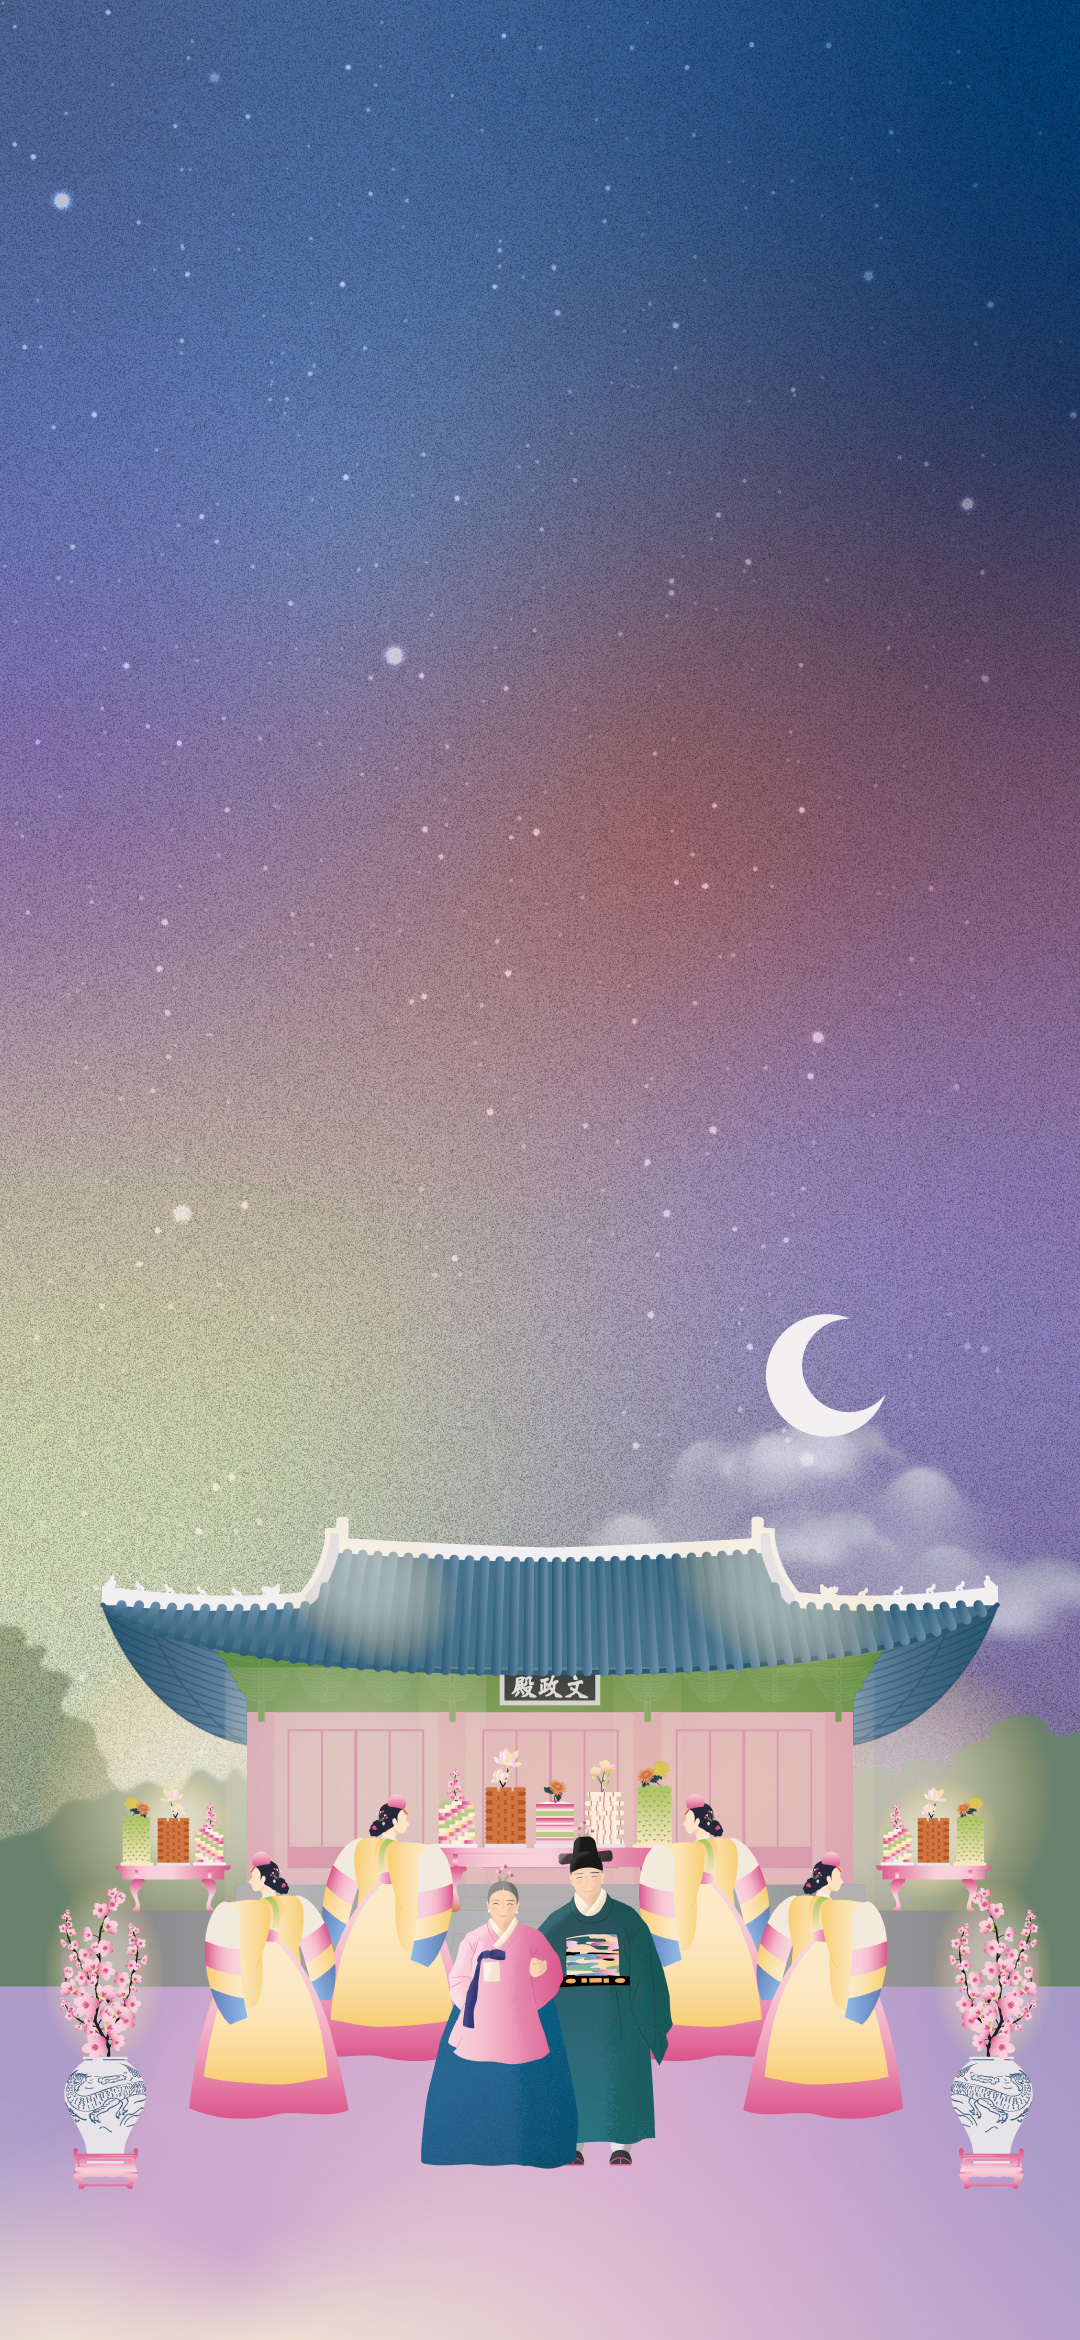
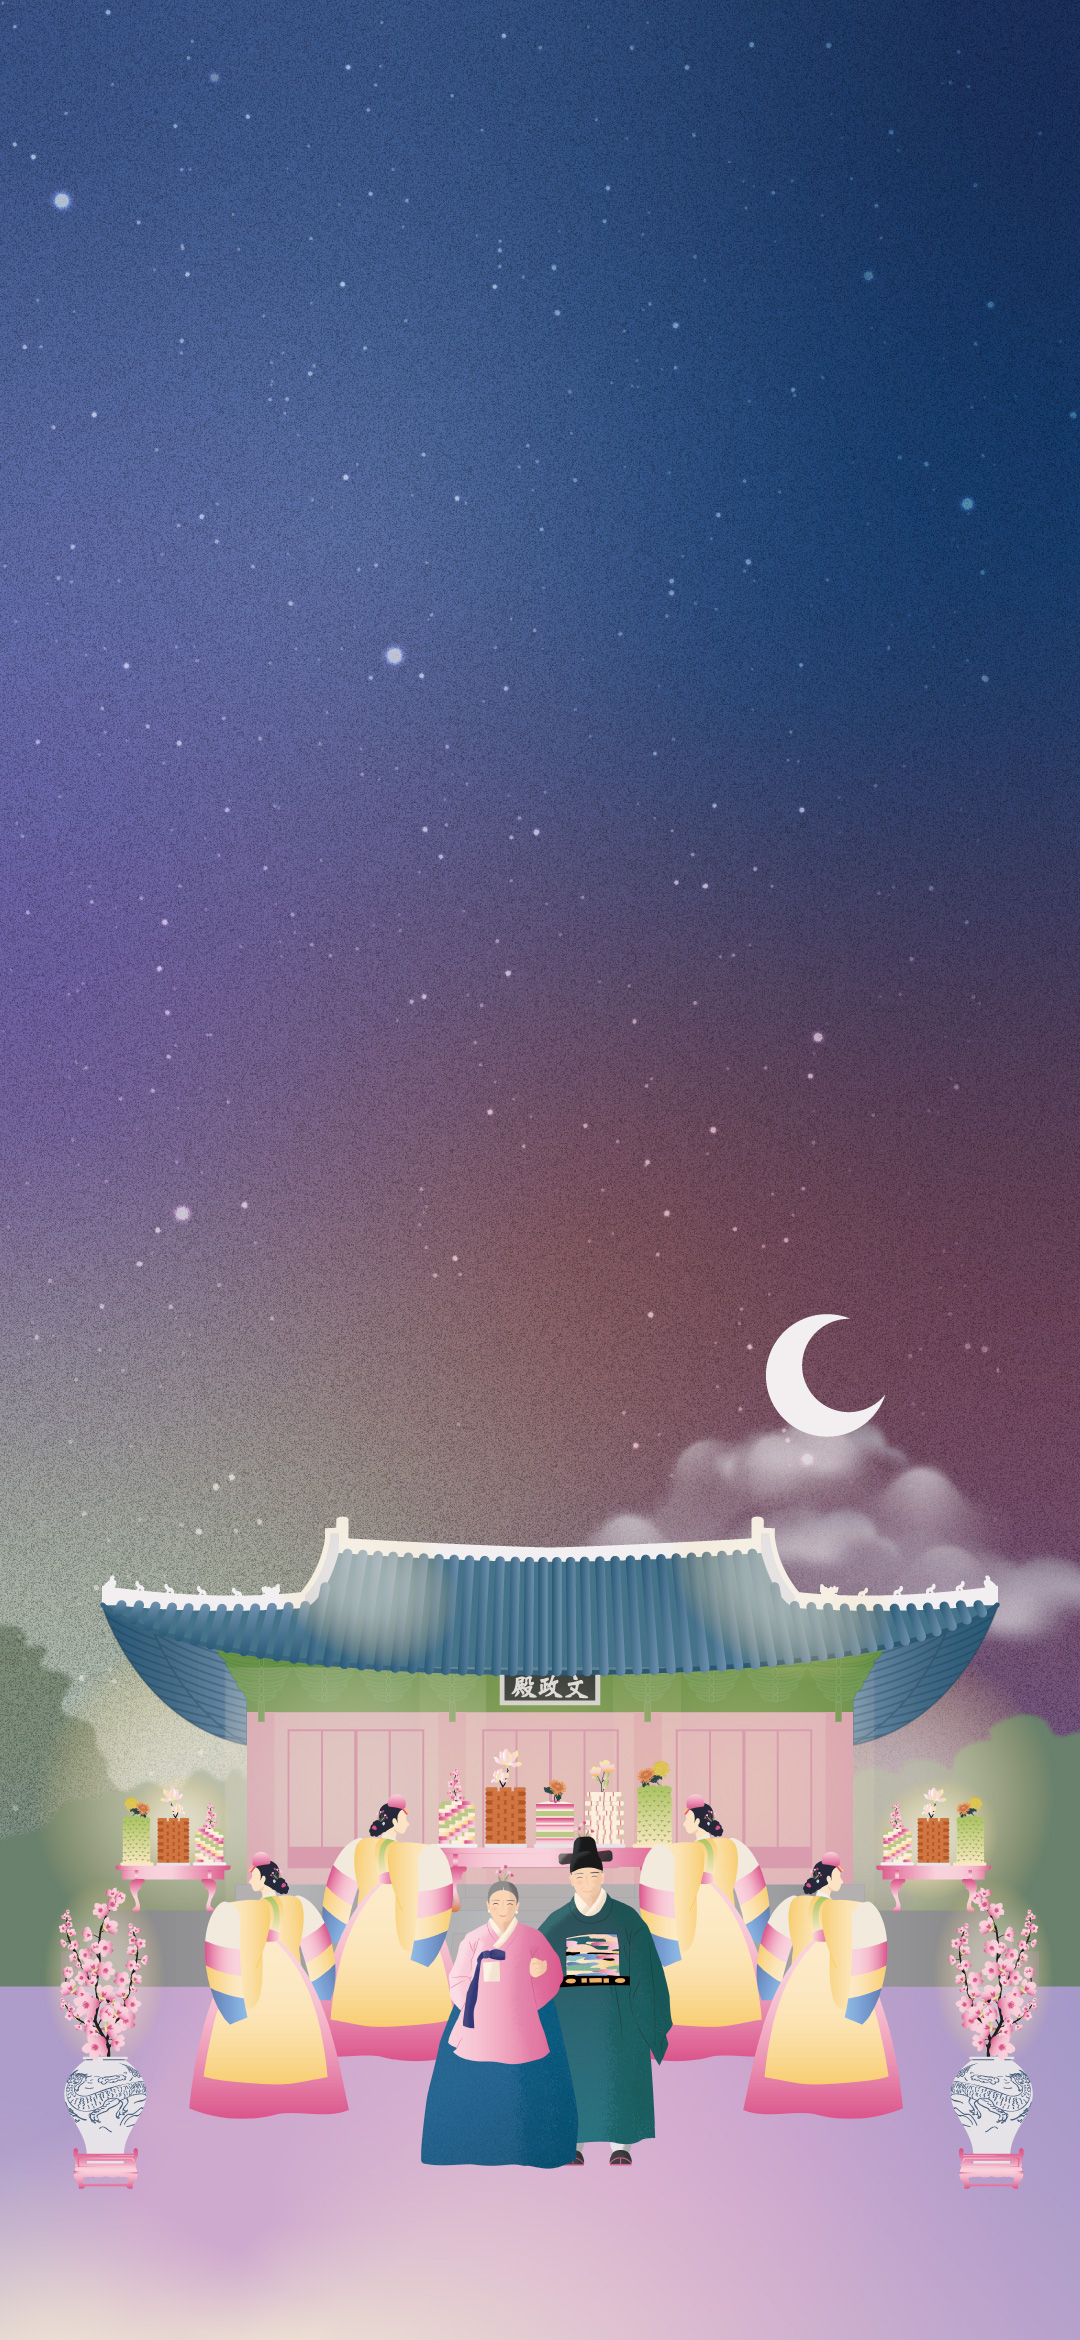
2026 콘텐츠/이미지 반영 및 UI 상호작용 개선

diff --git a/index.html b/index.html
@@ -16,6 +16,8 @@
         html {
             height: 100%;
             overflow-x: hidden;
+            overflow-y: auto;
+            scrollbar-gutter: stable;
         }
 
         body {
@@ -195,7 +197,7 @@
         }
 
         .logo-link:hover {
-            transform: scale(1.05);
+            transform: none;
         }
 
         .logo {
@@ -205,7 +207,7 @@
         }
 
         .logo-link:hover .logo {
-            filter: drop-shadow(0 6px 12px rgba(0, 0, 0, 0.2));
+            filter: drop-shadow(0 4px 6px rgba(0, 0, 0, 0.1));
         }
 
         .menu-button {
@@ -1096,6 +1098,20 @@
         .timeline-time { background: rgba(255, 255, 255, 0.07); border-bottom: 1px solid rgba(255, 255, 255, 0.2); }
         .timeline-activity { background: rgba(255, 255, 255, 0.07); }
 
+        /* Prevent text shift on expand/collapse by overriding duplicate flex timeline rules */
+        .timeline-container .timeline-item {
+            display: block;
+            gap: 0;
+            align-items: initial;
+        }
+
+        .timeline-container .timeline-header,
+        .timeline-container .timeline-time,
+        .timeline-container .timeline-activity {
+            width: 100%;
+            box-sizing: border-box;
+        }
+
         .current-time-container,
         .btn,
         .btn.active {
@@ -1108,6 +1124,23 @@
         .btn { background: rgba(255, 255, 255, 0.07); border-color: rgba(255, 255, 255, 0.25); }
         .btn:hover { background: rgba(255, 255, 255, 0.07); border-color: rgba(255, 255, 255, 0.34); }
         .btn.active { background: rgba(255, 255, 255, 0.07); border-color: rgba(255, 255, 255, 0.4); }
+
+        .sub-nav .btn {
+            font-weight: 600;
+            color: rgba(255, 255, 255, 0.78);
+        }
+
+        .sub-nav .btn:not(.active) {
+            opacity: 0.78;
+        }
+
+        .sub-nav .btn.active {
+            background: rgba(255, 255, 255, 0.34);
+            color: #243b6b;
+            border-color: transparent;
+            box-shadow: 0 4px 12px rgba(36, 59, 107, 0.22);
+            opacity: 1;
+        }
 
         body,
         .section-title,
@@ -1281,7 +1314,7 @@
                             <div class="timeline-details" id="timeline-19-10">
                                 <div class="timeline-detail"><s>① 좌통례, 나각입장</s></div>
                                 <div class="timeline-detail"><s>② 체험객 입장</s></div>
-                                <div class="timeline-detail"><s>③ 초엄 및 식전 공연 <향발무></s></div>
+                                <div class="timeline-detail"><s>③ 초엄 및 식전 공연 <박접무></s></div>
                                 <div class="timeline-detail"><s>④ 이엄 및 세자 입장</s></div>
                                 <div class="timeline-detail"><s>⑤ 삼엄 및 국왕 입장</s></div>
                                 <div class="timeline-detail"><s>⑥ 진화 및 진작</s></div>
@@ -1345,20 +1378,20 @@
                     <div class="glass-card">
                         <h3></h3>
                         <div class="image-container">
-                            <img src="https://cdn.imweb.me/thumbnail/20250928/c2d13feff5258.jpg" alt="창경궁 야연">
+                            <img src="images/poster.jpg" alt="창경궁 야연">
                         </div>
                         <div class="event-title-large">
-                            깊어가는 가을밤,<br>
-                            효심으로 물드는 궁중 연회
+                            가정의 달 5월, 효심이 피어나는<br>
+                            궁중 연회로의 초대
                         </div>
                         <div class="event-description">
                             '창경궁 야연'은 19세기 효명세자가 아버지 순조에게 올렸던 지극한 효심의 연회를 재해석하여 부모님에 대한 공경과 사랑을 나누는 체험형 공연입니다.<br>
-                            문무백관과 외명부가 되어 실제 조선시대의 궁중 연회에 초대받은 듯한 특별하고 잊을 수 없는 경험을 해보세요.
+                            문무백관과 외명부가 되어 조선시대 궁중 연회에 참여하는 특별하고 잊을 수 없는 경험을 부모님께 선물해보세요.
                         </div>
                         <div class="info-grid">
                             <div class="info-card">
                                 <div class="info-label">행사기간</div>
-                                <p>2025.10.3.(금) ~ 10.9.(목)</p>
+                                <p>2026.5.7.(목) ~ 5.17.(일)</p>
                             </div>
                             <div class="info-card">
                                 <div class="info-label">행사시간</div>
@@ -1385,7 +1418,7 @@
                             <img src="https://cdn.imweb.me/thumbnail/20250928/ad728103b157b.png" alt="관복 아이콘" style="width: 40px; height: 40px; margin-right: 8px; vertical-align: middle;">
                             문무백관 및 외명부 체험
                         </h4>
-                        <p>3정승 6판서 등 관직을 부여받아 관복을 입고 왕의 연회에 초대 받는 몰입감있는 체험</p>
+                        <p>3정승 6판서 등 관직을 부여받아 관복을 입고 왕의 연회에 참여하는 몰입형 체험</p>
                         <ul>
                             <li><strong>아버님</strong> | 단령, 사모 등 전통 의복 착용 및 메이크업</li>
                             <li><strong>어머님</strong> | 당의, 치마, 비녀, 첩지 등 전통 의복 착용 및 메이크업</li>
@@ -1398,8 +1431,8 @@
                             궁중병과 체험
                         </h4>
                         <ul>
-                            <li>조선 왕실의 특별한 날에 즐겼던 궁중 전통 간식 체험</li>
-                            <li>녹차약식, 곶감단지, 호두정과 등 다양한 병과 11종 제공</li>
+                            <li>조선 왕실의 특별한 날에 즐겼던 궁중 전통 다과 체험</li>
+                            <li>녹차약식, 곶감단지, 호두정과 등 다양한 병과 제공</li>
                         </ul>
                     </div>
                     
@@ -1410,18 +1443,19 @@
                         </h4>
                         <ul>
                             <li>궁중 병과와 차를 즐기며 궁중정재 및 민속무용 관람<br>
-                                <em>&lt;향발무&gt;, &lt;예도무&gt;, &lt;설장고춤&gt;</em></li>
-                            <li>생소한 궁중 의례와 공연을 보다 쉽게 즐길 수 있도록 모바일 자막 서비스 제공</li>
+                                <em>&lt;박접무&gt;, &lt;예도무&gt;, &lt;설장고춤&gt;</em></li>
+                            <li>*생소한 궁중 의례와 공연을 보다 쉽게 즐길 수 있도록 모바일 자막 서비스 제공</li>
                         </ul>
                     </div>
                     
                     <div class="glass-card">
                         <h4>
                             <img src="https://cdn.imweb.me/thumbnail/20250928/aee3d3c67eab4.png" alt="사진 아이콘" style="width: 40px; height: 40px; margin-right: 8px; vertical-align: middle;">
-                            전문 사진작가 기념사진 촬영
+                            전문 사진작가 사진·영상 촬영
                         </h4>
                         <ul>
                             <li><strong>장수사진</strong> : 의복을 갖춰입은 부모님의 모습을 전문 사진작가가 촬영하는 독사진</li>
+                            <li><strong>영상편지</strong> : 부모와 자녀가 서로에게 마음을 전하는 인터뷰 형식의 스냅 영상</li>
                             <li><strong>가족사진</strong> : 
                                 <ol>
                                     <li>공연 종료 후 무대 위 왕의 어좌와 고임상을 배경으로 촬영하는 가족 사진</li>
@@ -1439,6 +1473,7 @@
                         <ul>
                             <li><strong>효잡이</strong> : 자녀가 아닌 부모님이 돌잡이의 주인공이 되어보는 가족 참여형 이벤트</li>
                             <li><strong>효심편지</strong> : 미래의 부모님께 마음을 전하는 편지 작성 (6개월 / 1년 뒤 발송)</li>
+                            <li><strong>왕의 어찰 찾기</strong> : 창경궁 곳곳에 숨어 있는 효명세자의 편지 찾기 체험</li>
                         </ul>
                     </div>
                 </div>
@@ -1480,7 +1515,7 @@
                                     <div class="timeline-detail"><s>- 효잡이 체험 및 가족 스냅사진 촬영</s></div>
                                     <div class="timeline-detail"><s>- 대기실 휴식 및 전통 병과 즐기기</s></div>
                                     <div class="timeline-detail"><s>- 부모님께 효심 편지 작성 및 발송</s></div>
-                                    <div class="timeline-detail"><s>- 창경궁 곳곳에 숨겨진 어찰 찾기 체험</s></div>`r`n                                <div class="timeline-detail"><s>- 창경궁 포토 스팟, 포토 부스 등 자율 이용</s></div>
+                                    <div class="timeline-detail"><s>- 창경궁 곳곳에 숨겨진 어찰 찾기 체험</s></div>                                <div class="timeline-detail"><s>- 창경궁 포토 스팟, 포토 부스 등 자율 이용</s></div>
                                 </div>
                             </div>
                             <div class="timeline-item">
@@ -1498,7 +1533,7 @@
                                 <div class="timeline-details" id="schedule-timeline-19-10">
                                     <div class="timeline-detail"><s>① 좌통례, 나각입장</s></div>
                                     <div class="timeline-detail"><s>② 체험객 입장</s></div>
-                                    <div class="timeline-detail"><s>③ 초엄 및 식전 공연 <향발무></s></div>
+                                    <div class="timeline-detail"><s>③ 초엄 및 식전 공연 <박접무></s></div>
                                     <div class="timeline-detail"><s>④ 이엄 및 세자 입장</s></div>
                                     <div class="timeline-detail"><s>⑤ 삼엄 및 국왕 입장</s></div>
                                     <div class="timeline-detail"><s>⑥ 진화 및 진작</s></div>
@@ -1557,17 +1592,17 @@
                         <div class="timeline-item">
                             <div class="timeline-header">
                                 <div class="timeline-time performance-time">
-                                    향발무
+                                    박접무
                                 </div>
                                 <div class="timeline-activity">
-                                    <b>작은 타악기 향발을 연주하며 추는 우아한 춤</b>
+                                    <b>나비가 꽃을 찾아 노니는 모습을 형상화한 우아한 춤</b>
                                 </div>
                             </div>
                             <div class="timeline-details performance-details" id="performance-hyangbalmu">
                                 <div class="image-container">
-                                    <img src="https://cdn.imweb.me/thumbnail/20250928/3283accbd8613.jpg" alt="향발무">
+                                    <img src="images/bakjeopmoo.jpg" alt="박접무">
                                 </div>
-                                <p>조선 전기에 창작된 향악정재 중 하나인 향발무는 작은 타악기인 향발을 양손에 매고 장단에 맞춰 연주하며 추는 춤입니다. 우아하면서도 섬세한 움직임이 돋보이는 무대로 사랑받고 있으며 전통의 멋과 장단이 어우러진 공연입니다.</p>
+                                <p>조선 후기에 효명세자가 새로 지은 향악정재 중 하나인 박접무는 채색 나비가 봄볕을 찾아 쌍쌍이 날아와 꽃을 스치며 노니는 모습을 묘사했습니다. 여섯 명의 무용수가 나비가 수놓인 녹색의상「녹라포」를 입고 우아하면서 아름다운 동작을 선보입니다.</p>
                                 <div class="info-grid">
                                     <div class="info-card">
                                         <div class="info-label">공연시간</div>
@@ -1593,7 +1628,7 @@
                             </div>
                             <div class="timeline-details performance-details" id="performance-yedomu">
                                 <div class="image-container">
-                                    <img src="https://cdn.imweb.me/thumbnail/20250928/9ff0e999fdea7.jpg" alt="예도무">
+                                    <img src="images/yedomoo.jpg" alt="예도무">
                                 </div>
                                 <p>조선 순조 때 효명세자가 아버지 순조를 위해 만든 무산향과 어머니 순원숙왕후를 위해 만든 춘앵전을 함께 선보이는 공연입니다.</p>
                                 <div class="info-grid">
@@ -1630,7 +1665,7 @@
                             </div>
                             <div class="timeline-details performance-details" id="performance-seoljanggo">
                                 <div class="image-container">
-                                    <img src="https://cdn.imweb.me/thumbnail/20250928/9c19b3465a4aa.jpg" alt="설장고춤">
+                                    <img src="images/seoljanggo.jpg" alt="설장고춤">
                                 </div>
                                 <p>장고를 어깨에 비스듬히 둘러메고 허리에 띠로 동여매어 흔들리지 않도록 고정한 채 다양한 장단을 연주하며 추는 춤으로, 설장고 또는 설장고놀이라고도 불립니다.</p>
                                 <div class="info-grid">
@@ -1795,13 +1830,13 @@
                     
                     <div class="glass-card">
                         <div class="image-container">
-                            <img src="https://cdn.imweb.me/thumbnail/20250928/57f7e32ef21dd.jpg" alt="참외정과">
+                            <img src="images/baejeonggha.jpg" alt="배정과">
                         </div>
-                        <h3 style="color: #f2d58f; font-weight: bold;">참외정과</h3>
-                        <p>참외를 꿀이나 설탕물에 조려 만든 정과를 뜻하며, 여주 금사참외를 사용하여 전통방법을 활용하여 꽃 모양으로 만들었습니다.</p>
+                        <h3 style="color: #f2d58f; font-weight: bold;">배정과</h3>
+                        <p>수분, 식이섬유가 풍부해 소화와 장운동을 돕고, 기관지.폐 건강에 도움을 주는 배를 꿀이나 설탕물에 조려 만든 정과입니다.</p>
                         <div class="info-card">
                             <div class="info-label" style="color: rgba(255, 255, 255, 0.8); font-size: 0.8em;">주재료</div>
-                            <p style="color: rgba(255, 255, 255, 0.8); font-size: 0.8em;">참외, 설탕, 박고지</p>
+                            <p style="color: rgba(255, 255, 255, 0.8); font-size: 0.8em;">배, 설탕, 잣</p>
                         </div>
                     </div>
                     
@@ -2052,8 +2087,8 @@
                     <div style="text-align: center; margin-bottom: 2rem;">
                         <h3 style="margin-bottom: 1rem;">실시간 자막 서비스</h3>
                         <p style="opacity: 0.8; margin-bottom: 2rem;">공연 중 실시간으로 제공되는 자막 서비스를 이용해보세요</p>
-                        <a href="https://yayeon2025.netlify.app/synchronized_guest2.html?session=show" 
-                           target="_blank" 
+                        <a href="#" 
+                            
                            class="caption-button"
                            style="display: inline-block; padding: 1rem 2rem; background: linear-gradient(135deg, #667eea 0%, #764ba2 100%); color: white; text-decoration: none; border-radius: 12px; font-weight: bold; font-size: 1.1rem; box-shadow: 0 4px 15px rgba(102, 126, 234, 0.4); transition: all 0.3s ease;">
                             🎭 실시간 자막보기
@@ -2375,7 +2410,7 @@
             }
 
             // 버튼 상태 업데이트
-            const buttons = document.querySelectorAll('.sub-nav .btn');
+            const buttons = document.querySelectorAll('#program-section .sub-nav .btn');
             buttons.forEach(btn => {
                 btn.classList.remove('active');
                 // 클릭된 버튼 찾기
@@ -2745,5 +2780,15 @@
     </script>
 </body>
 </html> 
+
+
+
+
+
+
+
+
+
+
 
 